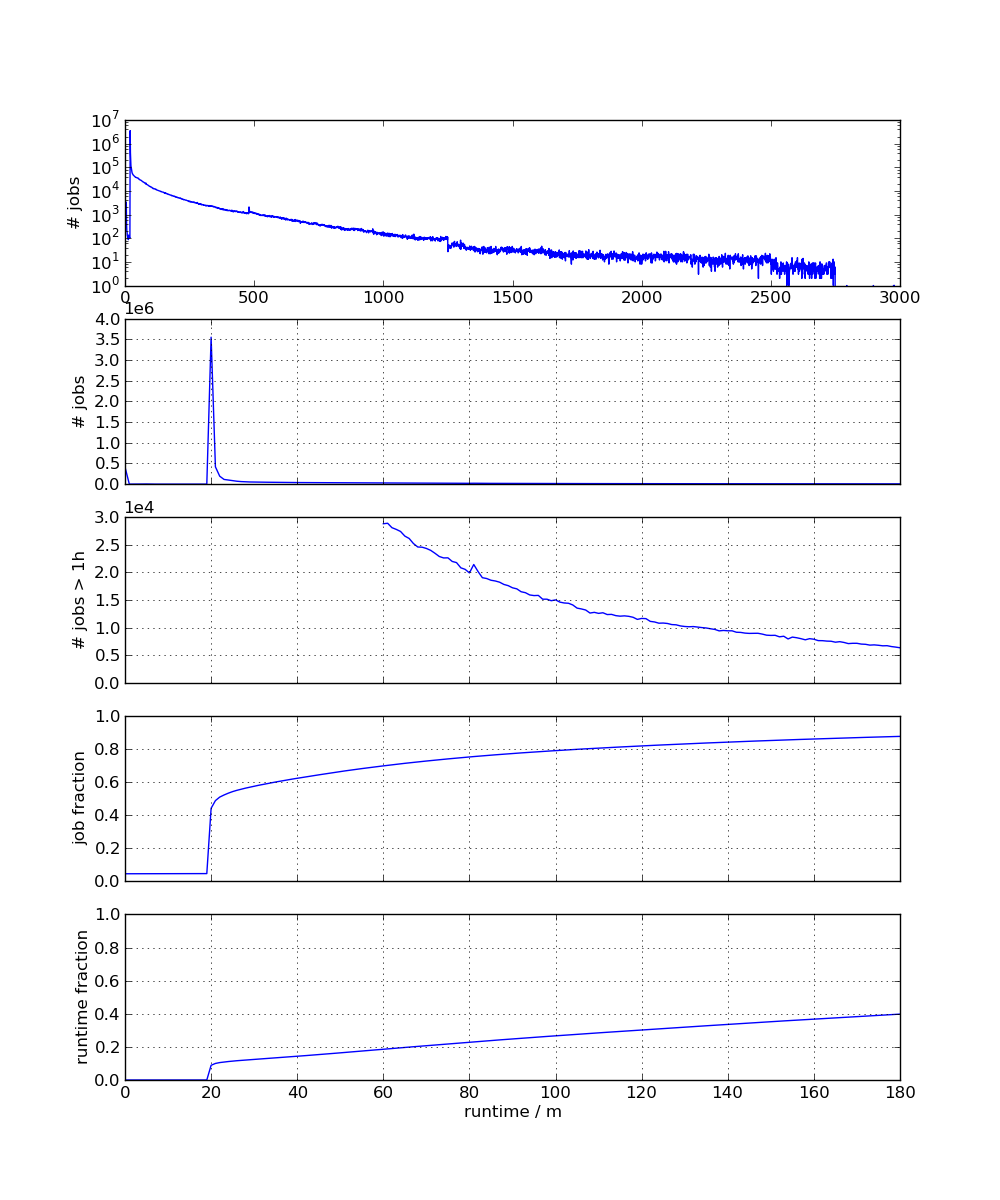
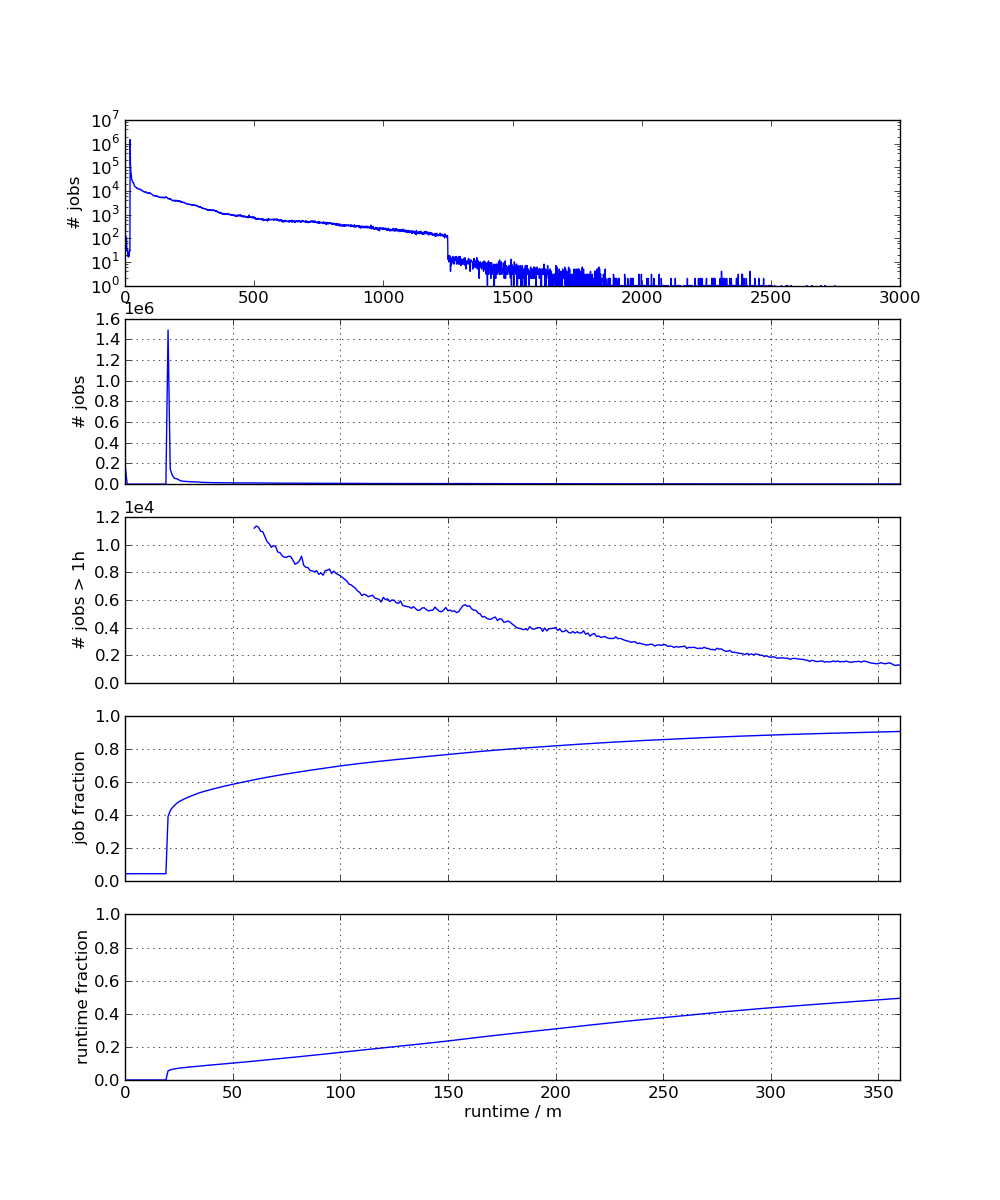
Update plots.

diff --git a/scripts/plot_runtime.py b/scripts/plot_runtime.py
@@ -32,26 +32,26 @@ ax1.set_ylabel("# jobs")
 ax2 = plt.subplot(512)
 ax2.grid(True)
 ax2.plot(edges, bins)
-ax2.set_xlim(0, 180)
+ax2.set_xlim(0, 360)
 ax2.set_ylabel("# jobs")
 plt.setp(ax2.get_xticklabels(), visible=False)
 ax3 = plt.subplot(513, sharex=ax2)
 ax3.grid(True)
 ax3.plot(edges[60:], bins[60:])
-ax3.set_xlim(0, 180)
+ax3.set_xlim(0, 360)
 ax3.set_ylabel("# jobs > 1h")
 plt.setp(ax3.get_xticklabels(), visible=False)
 ax4 = plt.subplot(514, sharex=ax2)
 ax4.grid(True)
 ax4.plot(edges, cummulative * 1. / grandtotal)
-ax4.set_xlim(0, 180)
+ax4.set_xlim(0, 360)
 ax4.set_ylabel("job fraction")
 plt.setp(ax4.get_xticklabels(), visible=False)
 ax5 = plt.subplot(515, sharex=ax2)
 ax5.grid(True)
 ax5.plot(edges, sumruntimes * 1. / grandruntime)
 ax5.set_xlabel("runtime / m")
-ax5.set_xlim(0, 180)
+ax5.set_xlim(0, 360)
 ax5.set_ylabel("runtime fraction")
 
 plt.savefig(args.output)
